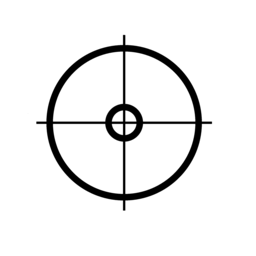
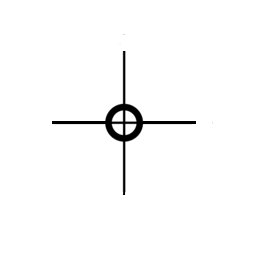
I would say that this is the 1st release so yeah let's see but some models are not here because they are so big.

Changed region(s): [[0.125, 0.125, 0.8438, 0.8438]]

diff --git a/GameEnginemvn/GameEngine/src/main/java/felix/MainGame.java b/GameEnginemvn/GameEngine/src/main/java/felix/MainGame.java
@@ -34,7 +34,7 @@ import java.util.Scanner;
 public class MainGame {
     private static final int PORT = 6000;
     static float killcode = 53138.46687413f;
-    static int myscore,oponentscore;
+    static int myscore=8,oponentscore;
 
     public static void main(String[] args) {
 
@@ -53,11 +53,7 @@ public class MainGame {
         TerrainTexturePack texturePack = new TerrainTexturePack(backgroundTexture, rTexture, bTexture, gTexture);
         TerrainTexture blendMap = new TerrainTexture(loader.loadTextureResource("blendMap"));
 
-        List<UItexture> graphicsui = new ArrayList<UItexture>();
-        UItexture gui = new UItexture(loader.loadTextureResource("mud"),new Vector2f(0.5f,0.5f),new Vector2f(0.25f,0.25f));
-        graphicsui.add(gui);
 
-        UIRenderer uiRenderer = new UIRenderer(loader);
 
         RawModel model = null;
         try {
@@ -292,6 +288,25 @@ public class MainGame {
             clientThread.start();
         });
         multiplayer.start();
+
+        List<UItexture> graphicsui = new ArrayList<UItexture>();
+        UItexture gui = new UItexture(loader.loadTextureResource("scope01"),new Vector2f(0,0.3f),new Vector2f(0.15f,0.25f));
+        UItexture tecky = new UItexture(loader.loadTextureResource("tecky"),new Vector2f(0,0.82f),new Vector2f(0.06f,0.1f));
+        UItexture nulova = new UItexture(loader.loadTextureResource("none"),new Vector2f(-0.115f,0.835f),new Vector2f(0.06f,0.125f));
+        UItexture first = new UItexture(loader.loadTextureResource("0"),new Vector2f(-0.05f,0.835f),new Vector2f(0.06f,0.125f));
+        UItexture second = new UItexture(loader.loadTextureResource("0"),new Vector2f(0.05f,0.835f),new Vector2f(0.06f,0.125f));
+        UItexture third = new UItexture(loader.loadTextureResource("none"),new Vector2f(0.115f,0.835f),new Vector2f(0.06f,0.125f));
+
+
+        graphicsui.add(third);
+        graphicsui.add(gui);
+        graphicsui.add(tecky);
+        graphicsui.add(first);
+        graphicsui.add(nulova);
+        graphicsui.add(second);
+
+        UIRenderer uiRenderer = new UIRenderer(loader);
+
         while (!Display.isCloseRequested()) {
 
             camera.move();
@@ -301,6 +316,7 @@ public class MainGame {
                 player.move(terrain1);
             }
             shot.isThereAShoot();
+            score(loader,nulova,first,second,third);
             //player.move(terrain1);
             //     System.out.println(player.getPosition().x);
             Mrenderer.processEntity(player);
@@ -309,9 +325,9 @@ public class MainGame {
             for (Entity entity : entities) {
                 Mrenderer.processEntity(entity);
             }
-            uiRenderer.render(graphicsui);
-            Mrenderer.render(light, camera);
 
+            Mrenderer.render(light, camera);
+            uiRenderer.render(graphicsui);
             DisplayManager.updateDisplay();
 
         }
@@ -321,6 +337,97 @@ public class MainGame {
         loader.cleanUp();
         DisplayManager.closeDisplay();
         System.exit(0);
+    }
+    public static void score (Loader loader,UItexture first,UItexture second,UItexture third,UItexture fourth){
+        if (myscore<10){
+            first.setTexture(loader.loadTextureResource("none"));
+            switch (myscore){
+                case 0:second.setTexture(loader.loadTextureResource("0"));break;
+                case 1:second.setTexture(loader.loadTextureResource("1"));break;
+                case 2:second.setTexture(loader.loadTextureResource("2"));break;
+                case 3:second.setTexture(loader.loadTextureResource("3"));break;
+                case 4:second.setTexture(loader.loadTextureResource("4"));break;
+                case 5:second.setTexture(loader.loadTextureResource("5"));break;
+                case 6:second.setTexture(loader.loadTextureResource("6"));break;
+                case 7:second.setTexture(loader.loadTextureResource("7"));break;
+                case 8:second.setTexture(loader.loadTextureResource("8"));break;
+                case 9:second.setTexture(loader.loadTextureResource("9"));break;
+            }
+        }else {
+            String numberString = String.valueOf(myscore);
+            char firstDigit = numberString.charAt(0);
+            char secondDigit = numberString.charAt(1);
+            int firstNumber = Character.getNumericValue(firstDigit);
+            int secondNumber = Character.getNumericValue(secondDigit);
+            switch (firstNumber){
+                case 1:first.setTexture(loader.loadTextureResource("1"));break;
+                case 2:first.setTexture(loader.loadTextureResource("2"));break;
+                case 3:first.setTexture(loader.loadTextureResource("3"));break;
+                case 4:first.setTexture(loader.loadTextureResource("4"));break;
+                case 5:first.setTexture(loader.loadTextureResource("5"));break;
+                case 6:first.setTexture(loader.loadTextureResource("6"));break;
+                case 7:first.setTexture(loader.loadTextureResource("7"));break;
+                case 8:first.setTexture(loader.loadTextureResource("8"));break;
+                case 9:first.setTexture(loader.loadTextureResource("9"));break;
+            }
+            switch (secondNumber){
+                case 0:second.setTexture(loader.loadTextureResource("0"));break;
+                case 1:second.setTexture(loader.loadTextureResource("1"));break;
+                case 2:second.setTexture(loader.loadTextureResource("2"));break;
+                case 3:second.setTexture(loader.loadTextureResource("3"));break;
+                case 4:second.setTexture(loader.loadTextureResource("4"));break;
+                case 5:second.setTexture(loader.loadTextureResource("5"));break;
+                case 6:second.setTexture(loader.loadTextureResource("6"));break;
+                case 7:second.setTexture(loader.loadTextureResource("7"));break;
+                case 8:second.setTexture(loader.loadTextureResource("8"));break;
+                case 9:second.setTexture(loader.loadTextureResource("9"));break;
+            }
+
+        }
+        if (oponentscore<10){
+            fourth.setTexture(loader.loadTextureResource("none"));
+            switch (oponentscore){
+                case 0:third.setTexture(loader.loadTextureResource("0"));break;
+                case 1:third.setTexture(loader.loadTextureResource("1"));break;
+                case 2:third.setTexture(loader.loadTextureResource("2"));break;
+                case 3:third.setTexture(loader.loadTextureResource("3"));break;
+                case 4:third.setTexture(loader.loadTextureResource("4"));break;
+                case 5:third.setTexture(loader.loadTextureResource("5"));break;
+                case 6:third.setTexture(loader.loadTextureResource("6"));break;
+                case 7:third.setTexture(loader.loadTextureResource("7"));break;
+                case 8:third.setTexture(loader.loadTextureResource("8"));break;
+                case 9:third.setTexture(loader.loadTextureResource("9"));break;
+            }
+        }else {
+            String numberString = String.valueOf(oponentscore);
+            char firstDigit = numberString.charAt(0);
+            char secondDigit = numberString.charAt(1);
+            int firstNumber = Character.getNumericValue(firstDigit);
+            int secondNumber = Character.getNumericValue(secondDigit);
+            switch (firstNumber){
+                case 1:third.setTexture(loader.loadTextureResource("1"));break;
+                case 2:third.setTexture(loader.loadTextureResource("2"));break;
+                case 3:third.setTexture(loader.loadTextureResource("3"));break;
+                case 4:third.setTexture(loader.loadTextureResource("4"));break;
+                case 5:third.setTexture(loader.loadTextureResource("5"));break;
+                case 6:third.setTexture(loader.loadTextureResource("6"));break;
+                case 7:third.setTexture(loader.loadTextureResource("7"));break;
+                case 8:third.setTexture(loader.loadTextureResource("8"));break;
+                case 9:third.setTexture(loader.loadTextureResource("9"));break;
+            }
+            switch (secondNumber){
+                case 0:fourth.setTexture(loader.loadTextureResource("0"));break;
+                case 1:fourth.setTexture(loader.loadTextureResource("1"));break;
+                case 2:fourth.setTexture(loader.loadTextureResource("2"));break;
+                case 3:fourth.setTexture(loader.loadTextureResource("3"));break;
+                case 4:fourth.setTexture(loader.loadTextureResource("4"));break;
+                case 5:fourth.setTexture(loader.loadTextureResource("5"));break;
+                case 6:fourth.setTexture(loader.loadTextureResource("6"));break;
+                case 7:fourth.setTexture(loader.loadTextureResource("7"));break;
+                case 8:fourth.setTexture(loader.loadTextureResource("8"));break;
+                case 9:fourth.setTexture(loader.loadTextureResource("9"));break;
+            }
+        }
     }
 
 }

diff --git a/GameEnginemvn/GameEngine/src/main/java/felix/graphicsui/UIRenderer.java b/GameEnginemvn/GameEngine/src/main/java/felix/graphicsui/UIRenderer.java
@@ -2,16 +2,18 @@ package felix.graphicsui;
 
 import felix.models.RawModel;
 import felix.renderEngine.Loader;
+import felix.toolbox.Maths;
 import org.lwjgl.opengl.GL11;
 import org.lwjgl.opengl.GL13;
 import org.lwjgl.opengl.GL20;
 import org.lwjgl.opengl.GL30;
+import org.lwjgl.util.vector.Matrix4f;
 import org.newdawn.slick.opengl.renderer.Renderer;
 
 import java.util.List;
 
 public class UIRenderer {
-    private  RawModel quad;
+    private final RawModel quad;
     private  UIShader shader;
    // Loader loader;
     public UIRenderer(Loader loader) {
@@ -24,12 +26,19 @@ public class UIRenderer {
         shader.start();
        GL30.glBindVertexArray(quad.getVaoID());
         GL20.glEnableVertexAttribArray(0);
+        GL11.glEnable(GL11.GL_BLEND);
+        GL11.glBlendFunc(GL11.GL_SRC_ALPHA, GL11.GL_ONE_MINUS_SRC_ALPHA);
+        GL11.glDisable(GL11.GL_DEPTH_TEST);
         for (UItexture gui : graphicsui) {
             GL13.glActiveTexture(GL13.GL_TEXTURE0);
             GL11.glBindTexture(GL11.GL_TEXTURE_2D,gui.getTexture());
+            Matrix4f matrix = Maths.createTransformationMatrix(gui.getPosition(),gui.getSize());
+            shader.loadTransformation(matrix);
             GL11.glDrawArrays(GL11.GL_TRIANGLE_STRIP, 0, quad.getVertexCount());
 
         }
+        GL11.glEnable(GL11.GL_DEPTH_TEST);
+        GL11.glDisable(GL11.GL_BLEND);
         GL20.glDisableVertexAttribArray(0);
         GL30.glBindVertexArray(0);
         shader.stop();

diff --git a/GameEnginemvn/GameEngine/src/main/java/felix/toolbox/Maths.java b/GameEnginemvn/GameEngine/src/main/java/felix/toolbox/Maths.java
@@ -8,6 +8,16 @@ import org.lwjgl.util.vector.Vector3f;
 
 
 public class Maths {
+
+    public static Matrix4f createTransformationMatrix(Vector2f translation, Vector2f scale) {
+        Matrix4f matrix = new Matrix4f();
+        matrix.setIdentity();
+        Matrix4f.translate(translation, matrix, matrix);
+        Matrix4f.scale(new Vector3f(scale.x, scale.y, 1f), matrix, matrix);
+        return matrix;
+    }
+
+
     public static float barryCentric(Vector3f p1, Vector3f p2, Vector3f p3, Vector2f pos) {
         float det = (p2.z - p3.z) * (p1.x - p3.x) + (p3.x - p2.x) * (p1.z - p3.z);
         float l1 = ((p2.z - p3.z) * (pos.x - p3.x) + (p3.x - p2.x) * (pos.y - p3.z)) / det;

diff --git a/GameEnginemvn/GameEngine/src/main/java/felix/graphicsui/UIShader.java b/GameEnginemvn/GameEngine/src/main/java/felix/graphicsui/UIShader.java
@@ -4,7 +4,7 @@ import felix.shaders.ShaderProgram;
 import org.lwjgl.util.vector.Matrix4f;
 
 public class UIShader extends ShaderProgram {
-    private static final String VERTEX_FILE = "/shaders/guiFragmentShader.txt";
+    private static final String VERTEX_FILE = "/shaders/guiVertexShader.txt";
     private static final String FRAGMENT_FILE = "/shaders/guiFragmentShader.txt";
 
     private int location_transformationMatrix;
